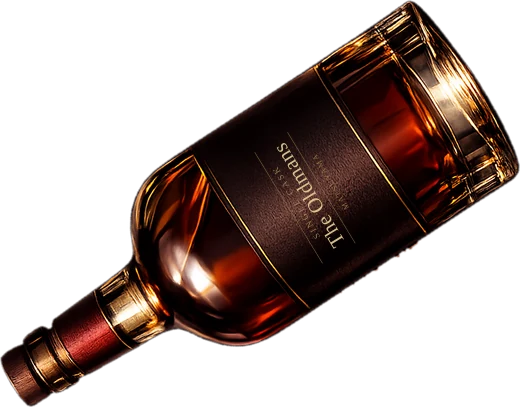
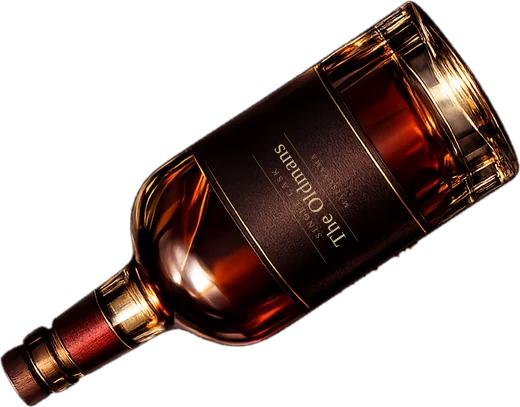
ラベルの傾きを緩め、月表示の滞在人数を数え直す
## 月表示の「7名」

何の数字か分からない表示になっていた。滞在の headcount を単純に足していたので、
同じ人が休憩で出入りしただけの日が大人数の日に見えていた。

「その日いた人の数」を数えるように直した。同じ人は何度出入りしても1人、連れは
最も多かったときの人数を足す。ラベルも「滞在 N人」と書いて、何の数か分かる
ようにした。

押したときの動きも直した。それまでは無関係な1件の編集画面が開いていたが、
日付の数字と同じくその日の週表示へ移る。

## ラベル

傾きを 7度 → 4度（3度左へ）。

Claude-Session: https://claude.ai/code/session_01SNCrdjiGb47CRQMJ1mNAQJ

Changed region(s): [[0.4923, 0.3538, 0.6769, 0.6192]]

diff --git a/the-oldman/src/app/(app)/calendar/CalendarView.tsx b/the-oldman/src/app/(app)/calendar/CalendarView.tsx
@@ -248,7 +248,6 @@ export default function CalendarView({
           today={today}
           reservations={reservations}
           visits={visits}
-          onPickVisit={setVisit}
           meId={meId}
           names={names}
           onPickDay={(d) => go(d, "week")}
@@ -488,7 +487,6 @@ function MonthGrid({
   today,
   reservations,
   visits,
-  onPickVisit,
   meId,
   names,
   onPickDay,
@@ -499,7 +497,6 @@ function MonthGrid({
   today: string;
   reservations: Reservation[];
   visits: CheckIn[];
-  onPickVisit: (c: CheckIn) => void;
   meId: string;
   names: Record<string, string>;
   onPickDay: (d: string) => void;
@@ -541,18 +538,21 @@ function MonthGrid({
                 {segs.length > 4 ? <span className="micro">+{segs.length - 4}</span> : null}
               </div>
 
-              {/* 実際に人がいた日には、日付の下に小さく人数を出す。 */}
+              {/*
+                実際に人がいた日の印。
+                数えるのは「その日いた人の数」— 同じ人が出入りを繰り返しても1人。
+                滞在の本数を足すと、休憩で出入りしただけの日が大人数の日に見える。
+                連れがいた場合は最も多かったときの人数を足す。
+                押すとその日の週表示へ移る（日付の数字と同じふるまい）。
+              */}
               {(() => {
                 const vs = visitsForDay(visits, d);
                 if (vs.length === 0) return null;
-                const heads = vs.reduce((n, v) => n + (v.c.headcount || 1), 0);
+                const members = new Set(vs.map((v) => v.c.profile_id)).size;
+                const guests = Math.max(0, ...vs.map((v) => (v.c.headcount || 1) - 1));
                 return (
-                  <button
-                    className="mcal__visits micro"
-                    onClick={() => onPickVisit(vs[0].c)}
-                    title="滞在の記録"
-                  >
-                    {heads}名
+                  <button className="mcal__visits micro" onClick={() => onPickDay(d)}>
+                    滞在 {members + guests}人
                   </button>
                 );
               })()}

diff --git a/the-oldman/src/components/WhiskyGauge.tsx b/the-oldman/src/components/WhiskyGauge.tsx
@@ -40,7 +40,7 @@ const TAPER = { left: 0.095, right: 0.92 };
  * 同じファイル名のまま中身だけ替えると、ホーム画面アプリが古い絵を掴んだままになる。
  * 絵を描き直したらここを上げる。
  */
-const V = "3";
+const V = "4";
 
 export default function WhiskyGauge({ saved, target }: { saved: number; target: number }) {
   const ratio = target > 0 ? Math.max(0, Math.min(1, saved / target)) : 0;

diff --git a/the-oldman/src/app/globals.css b/the-oldman/src/app/globals.css
@@ -3023,6 +3023,7 @@ tr.is-off {
   opacity: 1;
 }
 
+/* その日いた人の数。押すとその日の週表示へ。 */
 .mcal__visits {
   display: block;
   margin-top: 0.125rem;
@@ -3031,6 +3032,8 @@ tr.is-off {
   background: none;
   color: var(--brass);
   cursor: pointer;
+  white-space: nowrap;
+  letter-spacing: 0.04em;
 }
 
 /* いま何をしているか。名前の下に小さく添える。 */

diff --git a/the-oldman/ISSUES.md b/the-oldman/ISSUES.md
@@ -399,3 +399,13 @@ body 直下へ出して解決。
   止めはしない（帰るのを妨げない）。連れて行った理由は画面に書く。
   卓が1つでもあれば黙って戻る。用途にポーカーが無ければ何もしない。
 - 「ミーティング」を「ビジネス」に改称（DBの enum 値 `meeting` はそのまま）。
+
+### 2026-08-06（第14回）
+
+- ラベルの傾きを 7度 → 4度（3度左へ）。
+- **月表示の「7名」が何の数字か分からなかった。** 滞在の headcount を単純に
+  足していたので、同じ人が休憩で出入りしただけの日が大人数の日に見えていた。
+  「その日いた人の数」を数えるように直し（同じ人は何度出入りしても1人、
+  連れは最も多かったときの人数を足す）、「滞在 N人」と書くようにした。
+  押したときの動きも直した — それまでは無関係な1件の編集画面が開いていたが、
+  日付の数字と同じくその日の週表示へ移る。
